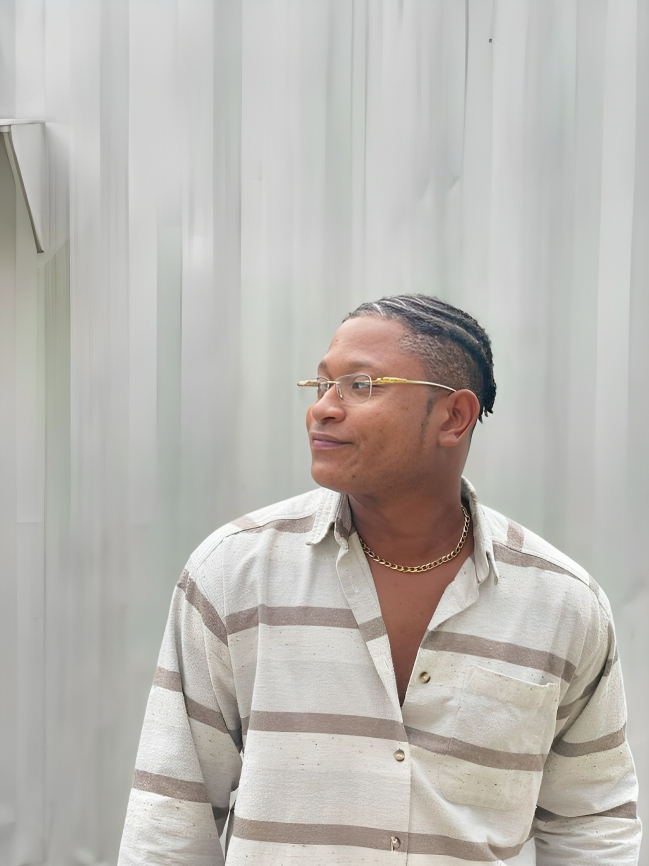
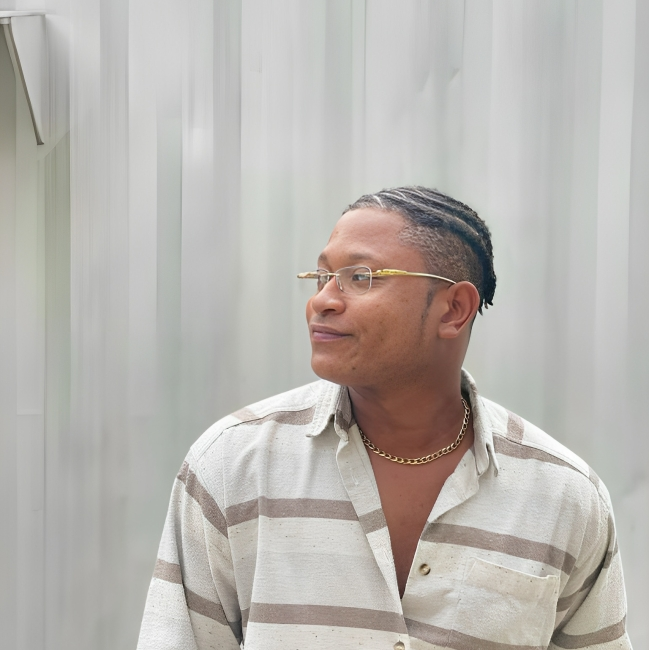
Updated Team Page

Changed region(s): [[0.1849, 0.2769, 0.9861, 1.0], [0.0, 0.0, 0.1233, 0.3077], [0.7088, 0.0308, 0.7396, 0.0923]]

diff --git a/components/team/team.tsx b/components/team/team.tsx
@@ -61,11 +61,19 @@ const members: Member[] = [
     linkedin: "https://www.linkedin.com/in/segun-olu-abe-55133626a/",
   },
   {
+    id: "unsigned",
+    name: "Daniel Okpeta",
+    role: "Game Developer",
+    src: "/team/Unsigned.jpeg",
+    indexLabel: "_07",
+    linkedin: "https://www.linkedin.com/in/unsigned/",
+  },
+  {
     id: "joel",
     name: "Agbamu Joel",
     role: "Character Artist",
     src: "/team/Joel.png",
-    indexLabel: "_07",
+    indexLabel: "_08",
     linkedin: "https://www.linkedin.com/in/joel-agbamu-2052521b2/",
   },
   {
@@ -73,7 +81,7 @@ const members: Member[] = [
     name: "Adegoke Oyinlola",
     role: "Environment Artist",
     src: "/team/Oyin.png",
-    indexLabel: "_08",
+    indexLabel: "_09",
     linkedin: "https://www.linkedin.com/in/oyinlolaadegoke1/",
   },
 ];
@@ -104,28 +112,6 @@ export default function TeamSection() {
   return (
     <section className="py-32">
       <div className="mx-auto max-w-5xl px-6">
-        <div className="mt-24 gap-4">
-          Inuv8 Studios is an independent game development studio focused on
-          creating immersive, systems driven interactive experiences for a
-          global audience. We believe great games are built by combining
-          compelling gameplay, meaningful storytelling, and scalable technology.
-          Our current focus is Project OVERRIDE, an original sci-fi action Adventure
-          that explores humanity&apos;s relationship with artificial
-          intelligence in a world shaped by corporate control and technological
-          collapse. Alongside our flagship title, we also develop community
-          initiatives that encourage collaboration, experimentation, and
-          innovation within the game development ecosystem. Our team brings
-          together expertise across game design, software engineering, 3D art,
-          animation, UI/UX, audio, and production. We operate with an iterative
-          development approach, emphasizing rapid prototyping, player feedback,
-          and continuous improvement to deliver polished, high-quality
-          experiences. Beyond building games, we are committed to establishing
-          sustainable development pipelines, adopting modern technologies, and
-          growing into a studio capable of delivering multiple commercial titles
-          over time. We see every project as an opportunity to improve our
-          technical capabilities while creating games that resonate with players
-          worldwide.
-        </div>
         <div className="mt-24 gap-4 sm:grid sm:grid-cols-2">
           <div className="sm:w-2/5">
             <h2 className="text-title text-3xl font-bold sm:text-4xl">
@@ -135,7 +121,7 @@ export default function TeamSection() {
           <div className="mt-6 sm:mt-0">
             <p>
               An Indie studio crafting powerful stories through art, animation,
-              and game development — driven by young creatives with over 25
+              and game development; driven by young creatives with over 25
               years of combined experience.
             </p>
           </div>
@@ -219,6 +205,28 @@ export default function TeamSection() {
               );
             })}
           </div>
+        </div>
+        <div className="mt-24 gap-4">
+          Inuv8 Studios is an independent game development studio focused on
+          creating immersive, systems driven interactive experiences for a
+          global audience. We believe great games are built by combining
+          compelling gameplay, meaningful storytelling, and scalable technology.
+          Our current focus is Project OVERRIDE, an original sci-fi action Adventure
+          that explores humanity&apos;s relationship with artificial
+          intelligence in a world shaped by corporate control and technological
+          collapse. Alongside our flagship title, we also develop community
+          initiatives that encourage collaboration, experimentation, and
+          innovation within the game development ecosystem. Our team brings
+          together expertise across game design, software engineering, 3D art,
+          animation, UI/UX, audio, and production. We operate with an iterative
+          development approach, emphasizing rapid prototyping, player feedback,
+          and continuous improvement to deliver polished, high-quality
+          experiences. Beyond building games, we are committed to establishing
+          sustainable development pipelines, adopting modern technologies, and
+          growing into a studio capable of delivering multiple commercial titles
+          over time. We see every project as an opportunity to improve our
+          technical capabilities while creating games that resonate with players
+          worldwide.
         </div>
       </div>
     </section>
